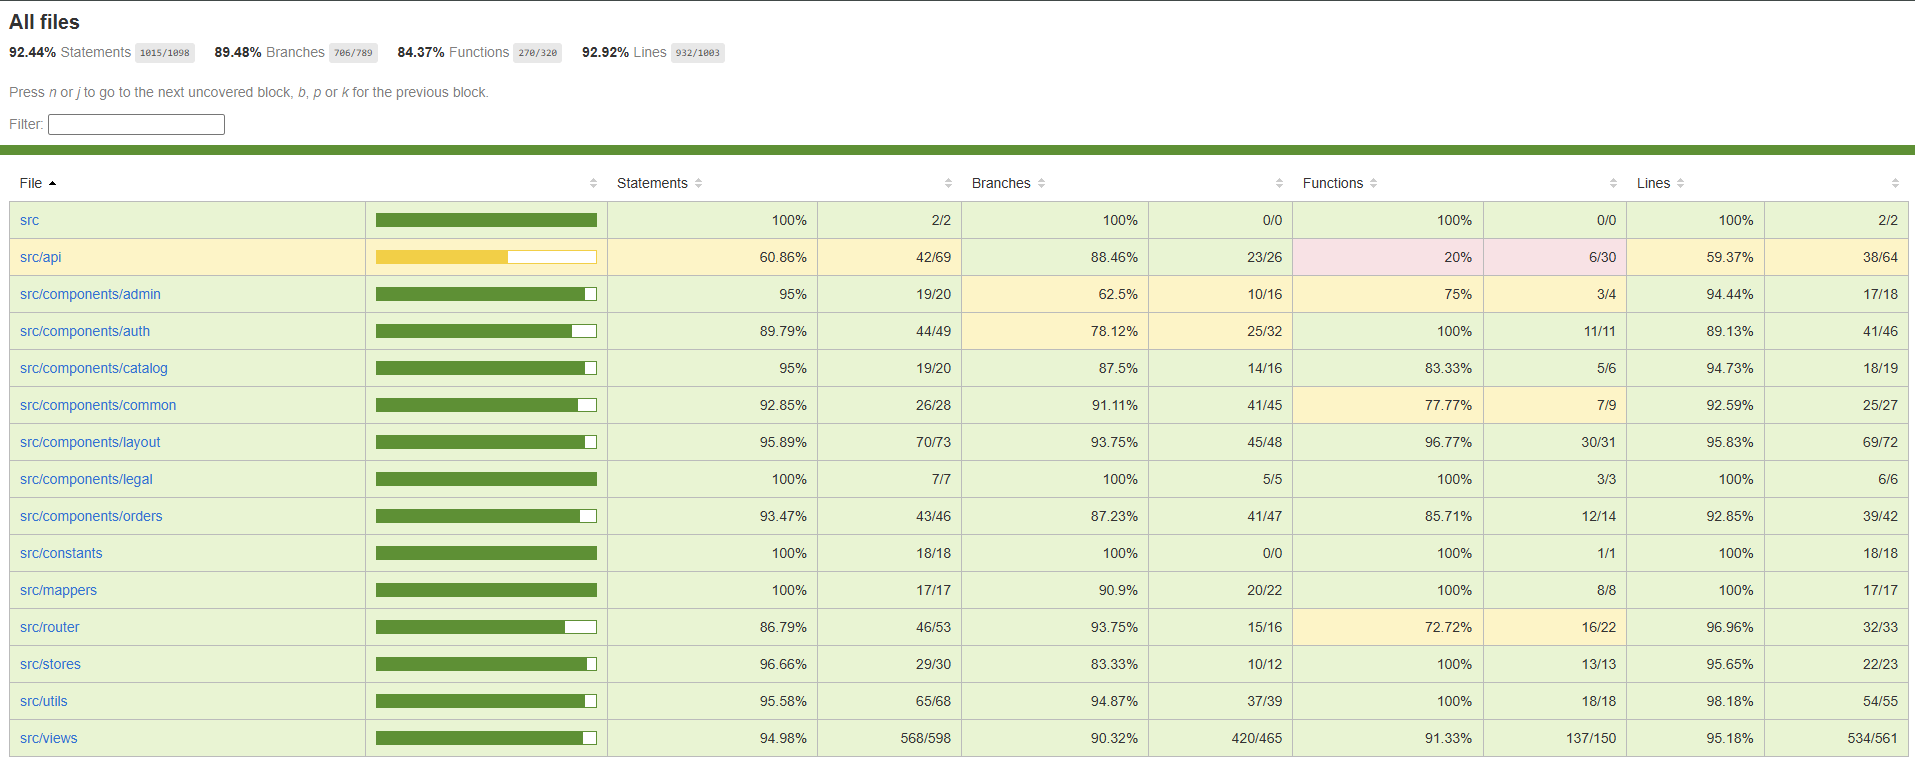
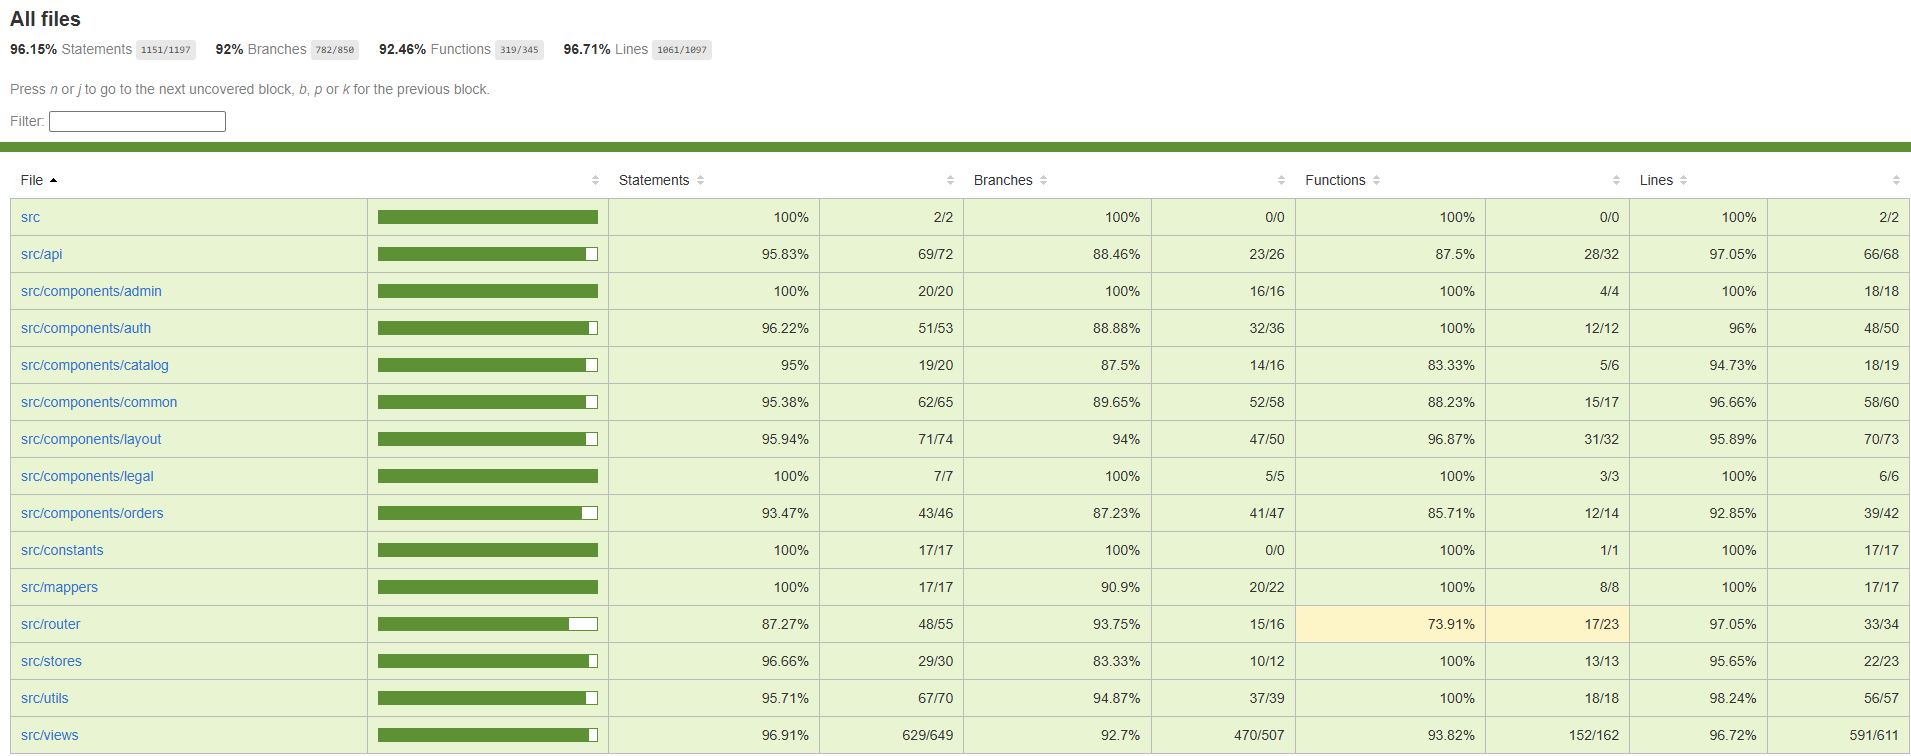
docs: update README after the review feedback

diff --git a/README.md b/README.md
@@ -40,11 +40,11 @@ Este repositorio contiene la aplicación en Vue que consume la [API del backend]
 
 - **Inicio** con la presentación del apiario y acceso al catálogo.
 - **Catálogo** con filtro por categorías (Mieles, Otros productos de la colmena y Para el apicultor) y **ficha** de cada producto, con su disponibilidad (disponible, próximamente o agotado hasta la próxima cosecha).
-- **Contacto**: correo, ubicación de referencia con enlace a Google Maps y redes sociales.
+- **Contacto**: formulario protegido con captcha, cuyos mensajes llegan al panel de administración, ubicación de referencia con enlace a Google Maps y redes sociales. La web no publica ningún correo electrónico.
 - **Recursos apícolas**, con fotos reales del apiario:
-  - **Actualidad apícola**: las noticias que el administrador publica desde el panel (por ejemplo, la agenda de ferias del sector), con negritas en el texto.
+  - **Actualidad apícola**, en formato periódico: el artículo seleccionado se lee en grande y el resto aparece en una columna lateral. Son las noticias que el administrador publica desde el panel (por ejemplo, la agenda de ferias del sector), con negritas en el texto.
   - **Calendario apícola**, **Mundo de las abejas**, **Amenazas para las abejas** y **Guías prácticas**.
-- Registro e inicio de sesión en una misma vista con dos pestañas.
+- Registro (protegido con captcha) e inicio de sesión en una misma vista con dos pestañas.
 - **Aviso legal** y **política de privacidad**.
 
 ### Cliente
@@ -57,6 +57,7 @@ Este repositorio contiene la aplicación en Vue que consume la [API del backend]
 - **Solicitudes**: listado de todas las solicitudes, resumen de pendientes, filtro por estado y cambio de estado un paso adelante o atrás.
 - **Productos**: alta, edición, cambio de disponibilidad y borrado con confirmación. Si un producto tiene solicitudes, no se puede borrar y se ofrece marcarlo como agotado.
 - **Contenidos**: artículos de Actualidad. Se crean como borrador, se editan y se publican o despublican; no se borran. Solo los publicados se ven en la web.
+- **Mensajes**: los mensajes del formulario de contacto, del más reciente al más antiguo, con un enlace para responder por correo.
 
 ## Capturas
 
@@ -70,11 +71,11 @@ Las miniaturas se pueden pulsar para ver la captura a tamaño completo.
 
 | Actualidad apícola | Calendario apícola | Mundo de las abejas |
 |---|---|---|
-| [<img src="docs/screenshots/actualidad.png" width="250" alt="Actualidad apícola con la agenda de ferias">](docs/screenshots/actualidad.png) | [<img src="docs/screenshots/calendario.png" width="250" alt="Calendario apícola">](docs/screenshots/calendario.png) | [<img src="docs/screenshots/mundo-abejas.png" width="250" alt="Mundo de las abejas">](docs/screenshots/mundo-abejas.png) |
+| [<img src="docs/screenshots/actualidad.png" width="250" alt="Actualidad apícola en formato periódico">](docs/screenshots/actualidad.png) | [<img src="docs/screenshots/calendario.png" width="250" alt="Calendario apícola">](docs/screenshots/calendario.png) | [<img src="docs/screenshots/mundo-abejas.png" width="250" alt="Mundo de las abejas">](docs/screenshots/mundo-abejas.png) |
 
 | Amenazas para las abejas | Guías prácticas | Contacto |
 |---|---|---|
-| [<img src="docs/screenshots/amenazas.png" width="250" alt="Amenazas para las abejas">](docs/screenshots/amenazas.png) | [<img src="docs/screenshots/guias.png" width="250" alt="Guías prácticas">](docs/screenshots/guias.png) | [<img src="docs/screenshots/contacto.png" width="250" alt="Página de contacto">](docs/screenshots/contacto.png) |
+| [<img src="docs/screenshots/amenazas.png" width="250" alt="Amenazas para las abejas">](docs/screenshots/amenazas.png) | [<img src="docs/screenshots/guias.png" width="250" alt="Guías prácticas">](docs/screenshots/guias.png) | [<img src="docs/screenshots/contacto.png" width="250" alt="Formulario de contacto con captcha">](docs/screenshots/contacto.png) |
 
 | Aviso legal | Política de privacidad |
 |---|---|
@@ -84,13 +85,13 @@ Las miniaturas se pueden pulsar para ver la captura a tamaño completo.
 
 | Inicio de sesión | Registro | Solicitud de pedido | Mis solicitudes |
 |---|---|---|---|
-| [<img src="docs/screenshots/login.png" width="200" alt="Pestaña de inicio de sesión">](docs/screenshots/login.png) | [<img src="docs/screenshots/registro.png" width="200" alt="Pestaña de registro">](docs/screenshots/registro.png) | [<img src="docs/screenshots/solicitud.png" width="200" alt="Formulario de solicitud de pedido">](docs/screenshots/solicitud.png) | [<img src="docs/screenshots/mis-solicitudes.png" width="200" alt="Historial de solicitudes con su estado">](docs/screenshots/mis-solicitudes.png) |
+| [<img src="docs/screenshots/login.png" width="200" alt="Pestaña de inicio de sesión">](docs/screenshots/login.png) | [<img src="docs/screenshots/registro.png" width="200" alt="Pestaña de registro con captcha">](docs/screenshots/registro.png) | [<img src="docs/screenshots/solicitud.png" width="200" alt="Formulario de solicitud de pedido">](docs/screenshots/solicitud.png) | [<img src="docs/screenshots/mis-solicitudes.png" width="200" alt="Historial de solicitudes con su estado">](docs/screenshots/mis-solicitudes.png) |
 
 ### Panel de administración
 
-| Solicitudes | Productos | Contenidos |
-|---|---|---|
-| [<img src="docs/screenshots/admin-solicitudes.png" width="250" alt="Panel: solicitudes">](docs/screenshots/admin-solicitudes.png) | [<img src="docs/screenshots/admin-productos.png" width="250" alt="Panel: productos">](docs/screenshots/admin-productos.png) | [<img src="docs/screenshots/admin-contenidos.png" width="250" alt="Panel: artículos de Actualidad">](docs/screenshots/admin-contenidos.png) |
+| Solicitudes | Productos | Contenidos | Mensajes |
+|---|---|---|---|
+| [<img src="docs/screenshots/admin-solicitudes.png" width="200" alt="Panel: solicitudes">](docs/screenshots/admin-solicitudes.png) | [<img src="docs/screenshots/admin-productos.png" width="200" alt="Panel: productos">](docs/screenshots/admin-productos.png) | [<img src="docs/screenshots/admin-contenidos.png" width="200" alt="Panel: artículos de Actualidad">](docs/screenshots/admin-contenidos.png) | [<img src="docs/screenshots/admin-mensajes.png" width="200" alt="Panel: mensajes de contacto">](docs/screenshots/admin-mensajes.png) |
 
 ### Móvil
 
@@ -112,6 +113,7 @@ Las miniaturas se pueden pulsar para ver la captura a tamaño completo.
 | Estado global | Pinia |
 | Estilos | Tailwind CSS 4 |
 | Iconos | Lucide |
+| Captcha | Cloudflare Turnstile |
 | Tests unitarios y de componentes | Vitest y Vue Test Utils |
 | Tests end-to-end | Playwright |
 | Calidad de código | ESLint, Oxlint y Prettier |
@@ -154,11 +156,12 @@ src
 └── views/        Una vista por pantalla
 ```
 
-- **`httpClient`**: añade el token (`Authorization: Bearer`) solo si la sesión es válida, convierte cualquier error en un `ApiError` uniforme y, ante un 401, cierra la sesión y redirige al login.
-- **Repositorios** (`productRepository`, `orderRepository`, `articleRepository`, `adminArticleRepository`...): un método por endpoint, siguiendo el *Repository Pattern*.
+- **`httpClient`**: añade el token (`Authorization: Bearer`) solo si la sesión es válida, convierte cualquier error en un `ApiError` uniforme y, ante un 401, cierra la sesión y redirige al login. Acepta también respuestas correctas sin cuerpo (201 y 204).
+- **Repositorios** (`productRepository`, `orderRepository`, `contactRepository`, `adminArticleRepository`...): un método por endpoint, siguiendo el *Repository Pattern*.
 - **Mappers**: traducen entre los datos del formulario y el formato que espera la API. Si el backend cambiara un nombre de campo, solo habría que tocar el mapper.
 - **Store `auth`**: el token es la única fuente de verdad; el email, los roles y la caducidad se obtienen decodificando el JWT. El getter `validToken` devuelve el token solo si no ha caducado.
 - **Guards del router**: `requiresAuth`, `requiresAdmin` y `guestOnly`. Las rutas del panel heredan `requiresAdmin` de la ruta padre `/admin`. Son una ayuda para la experiencia de usuario: la seguridad real la aplica el backend.
+- **`CaptchaWidget`**: carga el script de Cloudflare Turnstile una sola vez, pinta el reto y entrega el token al formulario por `v-model`. El token solo demuestra que se ha superado el reto: quien lo verifica es el backend, con la clave secreta.
 
 ## Diseño
 
@@ -191,7 +194,14 @@ npm install
 cp .env.example .env
 ```
 
-Contiene la URL de la API (`VITE_API_URL=http://localhost:8081/api`). Si el backend está en el puerto por defecto, no hay que cambiar nada.
+Contiene dos variables:
+
+| Variable | Para qué sirve |
+|---|---|
+| `VITE_API_URL` | URL de la API (`http://localhost:8081/api`). Si el backend está en el puerto por defecto, no hay que cambiarla. |
+| `VITE_TURNSTILE_SITE_KEY` | Clave pública del captcha. El ejemplo trae la **clave de prueba de Cloudflare**: muestra el reto con un aviso de pruebas y siempre lo da por superado. Debe ir emparejada con la clave secreta de prueba en el `.env` del backend. |
+
+Para usar claves reales, se crea un widget en el panel de Cloudflare Turnstile con el dominio de la web (`localhost` en desarrollo). La clave pública va en este `.env` y la secreta, en el del backend. Ninguna de las dos se sube al repositorio.
 
 ### 3. Arrancar la aplicación
 
@@ -215,23 +225,13 @@ npx vitest run
 
 (`npm run test:unit` los ejecuta en modo vigilancia: se repiten cada vez que se guarda un archivo.)
 
-**158 tests en 35 archivos.** Cubren las utilidades (validaciones, formato, ciclo de estados, negritas), los mappers, el `httpClient`, el store de autenticación, los guards del router y las vistas, incluido el panel de contenidos. En los tests de vistas, los repositorios se sustituyen por *mocks*, así que no necesitan el backend.
+**212 tests en 40 archivos.** Cubren las utilidades (validaciones, formato, ciclo de estados, negritas), los mappers, el `httpClient`, los repositorios, el store de autenticación, los guards del router, los componentes y todas las vistas, incluido el panel de administración. Ninguno necesita el backend ni conexión a internet:
 
-[<img src="docs/screenshots/tests-frontend.png" width="500" alt="Resultado de los tests del frontend: 158 tests en verde">](docs/screenshots/tests-frontend.png)
+- En los tests de vistas, los repositorios se sustituyen por *mocks*.
+- Los repositorios se prueban con el `httpClient` simulado, con una tabla de casos (`it.each`) que comprueba el verbo HTTP, la ruta y los datos de cada método.
+- El `CaptchaWidget` se prueba con una API de Turnstile falsa (`window.turnstile`), sin cargar el script de Cloudflare.
 
-## Testing
-
-### Tests unitarios y de componentes
-
-```bash
-npx vitest run
-```
-
-(`npm run test:unit` los ejecuta en modo vigilancia: se repiten cada vez que se guarda un archivo.)
-
-**158 tests en 35 archivos.** Cubren las utilidades (validaciones, formato, ciclo de estados, negritas), los mappers, el `httpClient`, el store de autenticación, los guards del router y las vistas, incluido el panel de contenidos. En los tests de vistas, los repositorios se sustituyen por *mocks*, así que no necesitan el backend.
-
-[<img src="docs/screenshots/tests-frontend.png" width="500" alt="Resultado de los tests del frontend: 158 tests en verde">](docs/screenshots/tests-frontend.png)
+[<img src="docs/screenshots/tests-frontend.png" width="500" alt="Resultado de los tests del frontend: 212 tests en verde">](docs/screenshots/tests-frontend.png)
 
 ### Cobertura
 
@@ -243,14 +243,14 @@ La cobertura se mide con el proveedor **V8** de Vitest. Se calcula sobre todo el
 
 | Medida | Cobertura |
 |---|---|
-| Sentencias | 92 % |
-| Ramas | 89 % |
-| Funciones | 84 % |
-| Líneas | 93 % |
+| Sentencias | 96 % |
+| Ramas | 92 % |
+| Funciones | 92 % |
+| Líneas | 97 % |
 
-Las vistas, los componentes, los mappers, el store y las utilidades están cubiertos entre el 87 y el 100 %. La carpeta `src/api` queda más baja (61 %) porque, en los tests de las vistas, los repositorios se sustituyen por *mocks*. El `httpClient`, que es el punto común de todas las peticiones, sí tiene sus propios tests.
+Todas las carpetas de `src` superan el 70 % en las cuatro medidas.
 
-[<img src="docs/screenshots/coverage-frontend.png" width="500" alt="Informe de cobertura de Vitest: 92 % de sentencias y 89 % de ramas">](docs/screenshots/coverage-frontend.png)
+[<img src="docs/screenshots/coverage-frontend.png" width="500" alt="Informe de cobertura de Vitest: 96 % de sentencias y 92 % de ramas">](docs/screenshots/coverage-frontend.png)
 
 ### Tests end-to-end
 
@@ -270,14 +270,17 @@ npx playwright test --project=chromium
 
 El recorrido principal registra un cliente nuevo, solicita un producto y comprueba que aparece en "Mis solicitudes". Cada ejecución deja en la base de datos un usuario y una solicitud de prueba, reconocibles por su email (`e2e-...@test.com`).
 
+**Importante:** los E2E deben ejecutarse con las **claves de prueba** del captcha, en el frontend y en el backend. Con claves reales, Cloudflare puede detectar el navegador automatizado y no dar el reto por superado, así que el registro no se completaría.
+
 ## Accesibilidad
 
-- HTML semántico (`header`, `nav`, `main`, `footer`, `article`, `time`, listas, `fieldset` y `legend`).
+- HTML semántico (`header`, `nav`, `main`, `footer`, `article`, `aside`, `time`, listas, `fieldset` y `legend`).
 - Formularios con `label` asociada a cada campo y errores enlazados con `aria-describedby` y `aria-invalid`.
 - Al enviar un formulario con errores, el foco va al primer campo con error.
 - Diálogos con `role="dialog"` y `aria-modal`, foco inicial en la opción segura y cierre con Escape.
 - Avisos y estados de carga anunciados con `aria-live`, `role="status"` y `role="alert"`.
 - Botones repetidos con `aria-label` que incluye a qué elemento se refieren.
+- `aria-current` para indicar dónde se está: la pestaña activa del panel y el artículo que se lee en Actualidad.
 - Textos alternativos que describen lo que muestra cada foto; las imágenes decorativas llevan `alt=""`.
 
 ## Decisiones técnicas
@@ -291,21 +294,8 @@ El recorrido principal registra un cliente nuevo, solicita un producto y comprue
 - **Una sola vista de acceso** con pestañas, y **un solo formulario** para crear y editar productos y artículos.
 - **El precio se escribe con coma o punto**, como es natural en español, y el mapper lo convierte a número.
 - **Imagen por defecto** para los productos sin imagen o con un enlace roto.
+- **Formulario de contacto en lugar de un correo visible**: evita que el correo se recoja para enviar spam y reúne los mensajes en el panel de administración.
+- **Captcha (Cloudflare Turnstile) en el contacto y el registro**, los dos formularios públicos que crean datos. El botón de envío se activa solo al superar el reto, y el token se pide de nuevo tras cada envío porque solo sirve una vez.
+- **Actualidad en formato periódico**: el artículo seleccionado va en la URL (`?articulo=id`), así funcionan los botones de atrás y adelante del navegador y se puede compartir el enlace a una noticia concreta.
 - **E2E contra el backend real**, en lugar de simular la API.
-- **Fotos reales del apiario** en lugar de imágenes generadas, para que la web sea fiel a la realidad del negocio. Las rutas de las imágenes se enlazan con `:src` desde constantes, para que Vite no las convierta en imports.
-- **Artículos en borrador o publicados, sin borrado**: despublicar devuelve el artículo a borrador sin perder el texto. Es el mismo criterio que en las solicitudes de pedido: estados en lugar de borrar.
-- **Negritas en los artículos sin `v-html`**: `parseBold` convierte `**texto**` en trozos que el template pinta con `<strong>`. El texto sigue escapado por Vue, así que no hay riesgo de XSS.
-- **«Para el apicultor» como nombre de la categoría** de enjambres y reinas, en lugar de «productos», porque son animales vivos. Solo cambia la etiqueta: el valor interno de la API se mantiene.
-- **`/recursos` redirige al primer apartado**, porque la sección no necesita página propia: se navega desde el menú.
-
-## Próximos pasos
-
-- **Categorías y página de detalle para los artículos de Actualidad**, con filtro por categoría.
-- **Subida de imágenes** desde el panel, en lugar de indicar su ruta.
-- **Formulario de contacto** con envío de correo.
-- **Recorrido E2E del administrador.**
-- **Despliegue** en un servidor con HTTPS.
-
-## Autora
-
-**Gema Miguel** · [GitHub](https://github.com/gmp395)
+- **Fotos reales del apiario** en lugar de imágenes generadas, para que la web sea
